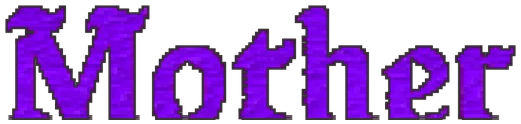
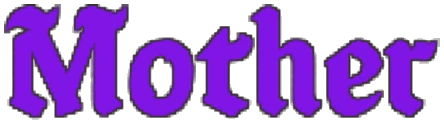
Re-cut the Mother title and redraw the CAT circle as a pen loop
Mother's title was cut off at the top and bottom and stair-stepped:
it's re-keyed from a wider, sharper render with soft edges, flattened
to its purple and given the same dark edge as the other bright titles.
The CAT ring was a partial dashed ellipse that cut through the triangle;
it's now one hand-drawn loop around the triangle and its number.

Claude-Session: https://claude.ai/code/session_01VJuUpLWgQ2fo8EEVBgMcdz

diff --git a/exorcist-sheet/app.js b/exorcist-sheet/app.js
@@ -144,14 +144,23 @@
     const r = rngFor("cat" + hot.dataset.cat);
     const svg = document.createElementNS("http://www.w3.org/2000/svg", "svg");
     svg.setAttribute("class", "cat-ring");
-    svg.setAttribute("viewBox", "0 0 100 100");
-    svg.setAttribute("preserveAspectRatio", "none");
-    svg.style.cssText = "position:absolute;inset:-16% -14%;pointer-events:none;overflow:visible;";
-    const wob = () => (r() * 8 - 4).toFixed(1);
-    svg.innerHTML = `<ellipse cx="${50 + +wob()}" cy="${50 + +wob()}" rx="${45 + r() * 4}" ry="${40 + r() * 5}"
-      fill="none" stroke="#b8160c" stroke-width="4.5" opacity=".9"
-      transform="rotate(${(r() * 14 - 7).toFixed(1)} 50 50)"
-      stroke-dasharray="${230 + r() * 40} 400" stroke-linecap="round"/>`;
+    // a pen loop around the triangle: just over one turn, so the ends overlap a little
+    // the way a hand-drawn circle does, with a slight wobble and tilt
+    // centred low, near the triangle's centroid, so it takes in the corners and the number
+    const w = hot.offsetWidth, h = hot.offsetHeight, cx = w / 2, cy = h * 0.6;
+    const rx = w * 0.68, ry = h * 0.68, tilt = (r() * 10 - 5) * Math.PI / 180;
+    const start = -2.2 + r() * 0.5, turn = Math.PI * 2 * (1.08 + r() * 0.05);
+    const ph = r() * 6, pts = [];
+    for (let i = 0; i <= 64; i++) {
+      const t = start + turn * i / 64;
+      const k = 1 + 0.035 * Math.sin(t * 2 + ph) + 0.03 * i / 64;   // wobble, spiral out a touch
+      const x = Math.cos(t) * rx * k, y = Math.sin(t) * ry * k;
+      pts.push(`${(cx + x * Math.cos(tilt) - y * Math.sin(tilt)).toFixed(1)},${(cy + x * Math.sin(tilt) + y * Math.cos(tilt)).toFixed(1)}`);
+    }
+    svg.setAttribute("viewBox", `0 0 ${w} ${h}`);
+    svg.style.cssText = "position:absolute;left:0;top:0;width:100%;height:100%;pointer-events:none;overflow:visible;";
+    svg.innerHTML = `<polyline points="${pts.join(" ")}" fill="none" stroke="#b8160c" stroke-width="2.6"
+      stroke-linecap="round" stroke-linejoin="round" opacity=".88"/>`;
     hot.appendChild(svg);
   }
   function renderCat() {
